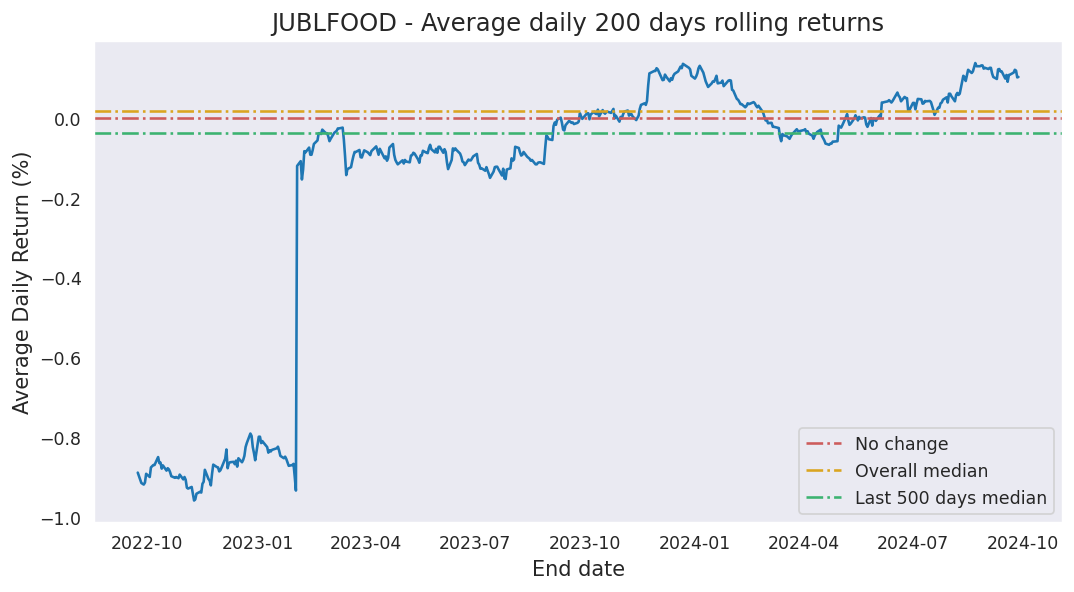
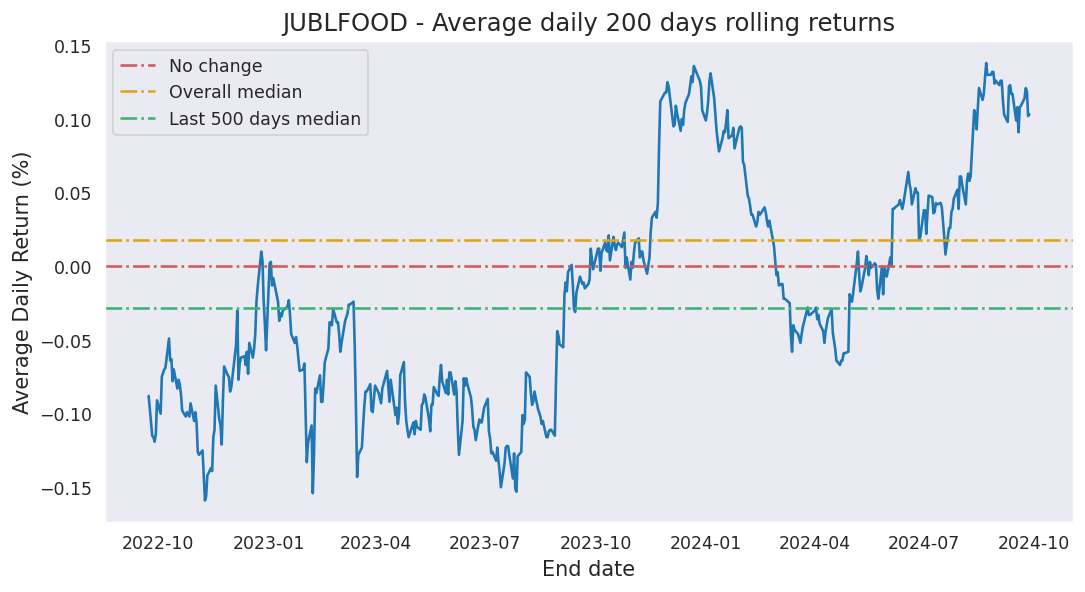
Added stock split data. Updated JUBLFOOD

diff --git a/web/pages/JUBLFOOD.html b/web/pages/JUBLFOOD.html
@@ -21,7 +21,7 @@
     <div class="row p-2 row-section text-center">
         <p>Analysis based on <span class="metric">1180</span> records from <span
                 class="metric">January 01, 2020</span> to <span class="metric">September 27, 2024</span></p>
-        <p>Last updated on <span class="metric">September 28, 2024</span></p>
+        <p>Last updated on <span class="metric">September 30, 2024</span></p>
         <p><a href="../../data/NSE/JUBLFOOD/consolidated.parquet">Download data</a></p>
     </div>
     <div>
@@ -54,7 +54,7 @@
 <td><span class="color-green metric">6.27%</span></td>
 <td><span class="color-green metric">21.20%</span></td>
 <td><span class="color-green metric">22.96%</span></td>
-<td><span class="color-red metric">-71.42%</span></td>
+<td><span class="color-green metric">42.92%</span></td>
                     </tr>
                     <tr>
                         <th scope="row">Average Daily Return</th>
@@ -62,7 +62,7 @@
 <td><span class="color-green metric">0.406%</span></td>
 <td><span class="color-green metric">0.385%</span></td>
 <td><span class="color-green metric">0.103%</span></td>
-<td><span class="color-red metric">-0.125%</span></td>
+<td><span class="color-green metric">0.036%</span></td>
                     </tr>
                     <tr>
                         <th scope="row">Average Close Price</th>
@@ -70,7 +70,7 @@
 <td>681.91</td>
 <td>638.76</td>
 <td>537.33</td>
-<td>1546.08</td>
+<td>565.09</td>
                     </tr>
                     <tr>
                         <th scope="row">Lowest Close Price</th>
@@ -86,7 +86,7 @@
 <td>708.85</td>
 <td>708.85</td>
 <td>708.85</td>
-<td>4525.70</td>
+<td>905.14</td>
                     </tr>
                 </tbody>
             </table>
@@ -111,10 +111,10 @@
             <div class="col-lg-12 col-xl-3 vert-center">
                 <p>Last close price: <span class="metric">688.25</span></p>
                 <p>Last candle: <span class="metric color-green">Green</span></p>
-                <p>JUBLFOOD first closed above this last close price on <span class="metric">Wednesday, January 01, 2020</span> which was <span class="metric">1732</span> days ago.</p>
-                <p>Since then, it has closed over this price <span class="metric">48.9%</span> of
+                <p>JUBLFOOD first closed above this last close price on <span class="metric">Friday, July 23, 2021</span> which was <span class="metric">1165</span> days ago.</p>
+                <p>Since then, it has closed over this price <span class="metric">16.4%</span> of
                     times
-                    which is <span class="metric">577</span> trading days.</p>
+                    which is <span class="metric">130</span> trading days.</p>
             </div>
             <div class="col-lg-12 col-xl-9 text-center">
                 <img src="../images/JUBLFOOD_CDF_Close_Price.png" class="plot_img">
@@ -174,10 +174,10 @@
         <div class="row ps-2 row-section">
             <div class="col-lg-12 col-xl-3 vert-center">
                 <p>Current down from ATH: 
-                    <span class="metric color-red">-84.79%</span>
+                    <span class="metric color-red">-23.96%</span>
                 </p>
                 <p>Most down from ATH: 
-                    <span class="metric color-red">-90.67%</span>
+                    <span class="metric color-red">-53.37%</span>
                 </p>
                 <p>ATH hits in last 1000 days: 
                     <span class="metric color-green">34</span>

diff --git a/index.html b/index.html
@@ -161,19 +161,19 @@
                 <tr>
     <th scope="row">#1</th>
     <td><a href="web/pages/DEEPAKFERT.html">DEEPAKFERT</a></td>
-    <td>JUBLFOOD <span class="color-red metric">(-66.2%)</span></td>
+    <td>INDIGOPNTS <span class="color-red metric">(-65.5%)</span></td>
     <td>NIFTYBEES <span class="color-green metric">(67.8%)</span></td>
 </tr>
 <tr>
     <th scope="row">#2</th>
     <td><a href="web/pages/GOLDBEES.html">GOLDBEES</a></td>
-    <td>JUBLFOOD <span class="color-red metric">(-67.7%)</span></td>
+    <td>INDIGOPNTS <span class="color-red metric">(-64.1%)</span></td>
     <td>NH <span class="color-green metric">(89.1%)</span></td>
 </tr>
 <tr>
     <th scope="row">#3</th>
     <td><a href="web/pages/HDFCBANK.html">HDFCBANK</a></td>
-    <td>JUBLFOOD <span class="color-red metric">(-20.7%)</span></td>
+    <td>INDIGOPNTS <span class="color-red metric">(-16.2%)</span></td>
     <td>NIFTYBEES <span class="color-green metric">(58.6%)</span></td>
 </tr>
 <tr>
@@ -186,7 +186,7 @@
     <th scope="row">#5</th>
     <td><a href="web/pages/INDIGOPNTS.html">INDIGOPNTS</a></td>
     <td>DEEPAKFERT <span class="color-red metric">(-65.5%)</span></td>
-    <td>JUBLFOOD <span class="color-green metric">(89.4%)</span></td>
+    <td>RBA <span class="color-green metric">(89.0%)</span></td>
 </tr>
 <tr>
     <th scope="row">#6</th>
@@ -197,19 +197,19 @@
 <tr>
     <th scope="row">#7</th>
     <td><a href="web/pages/JUBLFOOD.html">JUBLFOOD</a></td>
-    <td>NH <span class="color-red metric">(-69.6%)</span></td>
-    <td>INDIGOPNTS <span class="color-green metric">(89.4%)</span></td>
+    <td>GOLDBEES <span class="color-red metric">(-41.5%)</span></td>
+    <td>RBA <span class="color-green metric">(74.7%)</span></td>
 </tr>
 <tr>
     <th scope="row">#8</th>
     <td><a href="web/pages/NH.html">NH</a></td>
-    <td>JUBLFOOD <span class="color-red metric">(-69.6%)</span></td>
+    <td>INDIGOPNTS <span class="color-red metric">(-64.6%)</span></td>
     <td>NIFTYBEES <span class="color-green metric">(93.4%)</span></td>
 </tr>
 <tr>
     <th scope="row">#9</th>
     <td><a href="web/pages/NIFTYBEES.html">NIFTYBEES</a></td>
-    <td>JUBLFOOD <span class="color-red metric">(-54.9%)</span></td>
+    <td>INDIGOPNTS <span class="color-red metric">(-52.0%)</span></td>
     <td>HDFCSML250 <span class="color-green metric">(98.7%)</span></td>
 </tr>
 <tr>

diff --git a/Stock Forecasting/data_process.py b/Stock Forecasting/data_process.py
@@ -41,7 +41,7 @@ class StockData:
         self,
         symbol: str,
         stock_data_dir: Path,
-        eps_data_dir: Path,
+        company_data_dir: Path,
         image_out_path: Path,
         reload_data: bool = False
     ) -> None:
@@ -52,7 +52,7 @@ class StockData:
         if reload_data or (not (self.consolidated_data_path.exists() and self.consolidated_data_path.is_file())):
             self.raw_data = self.consolidate_data(
                 stock_data_dir,
-                eps_data_dir
+                company_data_dir
             )
             self.raw_data.to_parquet(self.consolidated_data_path, index = False)
         else:
@@ -73,7 +73,7 @@ class StockData:
     def consolidate_data(
             self,
             stock_data_dir: Path,
-            eps_data_dir: Path
+            company_data_dir: Path
         ) -> pd.DataFrame:
         print(f"\nReloading data for '{self.symbol}'...")
 
@@ -108,7 +108,7 @@ class StockData:
                 "VWAP", "52W H", "52W L", "Volume", "Value", "Num Trades"
             ]
 
-            eps_file = eps_data_dir.joinpath(f"{self.symbol}.csv")
+            eps_file = company_data_dir.joinpath("EPS", f"{self.symbol}.csv")
 
             if eps_file.exists():
                 eps_df = pd.read_csv(eps_file)
@@ -142,6 +142,33 @@ class StockData:
                 col_names.append("PE")
             
             hist_df.columns = col_names
+
+            stock_split_file = company_data_dir.joinpath("StockSplit", f"{self.symbol}.csv")
+
+            if stock_split_file.exists():
+                stock_split_df = pd.read_csv(stock_split_file)
+
+                stock_split_df["RecordDate"] = pd.to_datetime(
+                    stock_split_df["RecordDate"],
+                    format = "%d-%m-%Y"
+                )
+                stock_split_df['StockMultiplier'] = 1 / stock_split_df['StockMultiplier'].cumprod()
+
+                price_multiplier_df = pd.merge(
+                    hist_df[['Date']], 
+                    stock_split_df, 
+                    how = "left", 
+                    left_on = "Date", 
+                    right_on = "RecordDate"
+                )
+
+                price_multiplier_df['StockMultiplier'] = price_multiplier_df['StockMultiplier'].bfill().fillna(1)
+                hist_df['Prev Close'] = hist_df['Prev Close'] * price_multiplier_df['StockMultiplier']
+
+                price_multiplier_df['StockMultiplier'] = price_multiplier_df['StockMultiplier'].shift(-1).fillna(1)
+
+                for col in ["Open", "High", "Low", "LTP", "Close", "VWAP"]:
+                    hist_df[col] = hist_df[col] * price_multiplier_df['StockMultiplier']
 
             print(f"Loaded {hist_df.shape[0]} records from {len(files)} files with data from {hist_df['Date'].min().date()} to {hist_df['Date'].max().date()}.")
             return hist_df

diff --git a/Stock Forecasting/utility.py b/Stock Forecasting/utility.py
@@ -11,9 +11,9 @@ class Config:
             f"{self.NSE_DATA_DIR = } | Valid: {self.NSE_DATA_DIR.exists() & self.NSE_DATA_DIR.is_dir()}"
         )
 
-        self.EPS_DATA_DIR = Path(conf_dict['eps_data_dir'])
+        self.COMPANY_DATA_DIR = Path(conf_dict['company_data_dir'])
         print(
-            f"{self.EPS_DATA_DIR = } | Valid: {self.EPS_DATA_DIR.exists() & self.EPS_DATA_DIR.is_dir()}"
+            f"{self.COMPANY_DATA_DIR = } | Valid: {self.COMPANY_DATA_DIR.exists() & self.COMPANY_DATA_DIR.is_dir()}"
         )
 
         self.INDEX_TEMPLATE = Path(conf_dict['index_template'])

diff --git a/Stock Forecasting/stock_interactive.py b/Stock Forecasting/stock_interactive.py
@@ -50,7 +50,7 @@ def __(CONFIG, StockData, symbol):
     stock_data = StockData(
         symbol.value, 
         CONFIG.NSE_DATA_DIR, 
-        CONFIG.EPS_DATA_DIR,
+        CONFIG.COMPANY_DATA_DIR,
         CONFIG.IMAGES_OUT_DIR,
         False
     )

diff --git a/Stock Forecasting/main.py b/Stock Forecasting/main.py
@@ -17,7 +17,7 @@ for symbol in STOCK_SYMBOLS:
     stock_data = StockData(
         symbol, 
         CONFIG.NSE_DATA_DIR, 
-        CONFIG.EPS_DATA_DIR,
+        CONFIG.COMPANY_DATA_DIR,
         CONFIG.IMAGES_OUT_DIR,
         is_data_updated
     )
